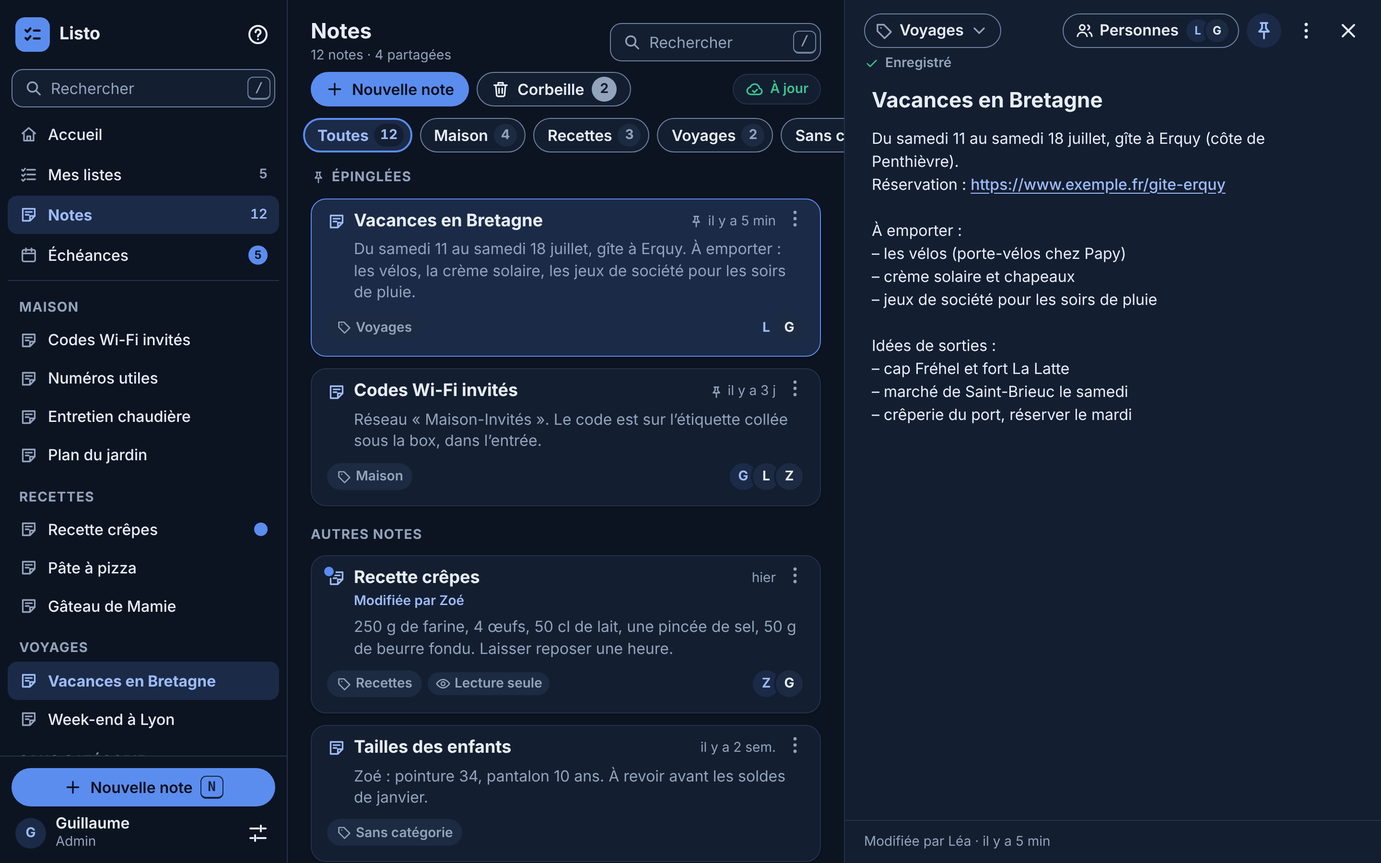
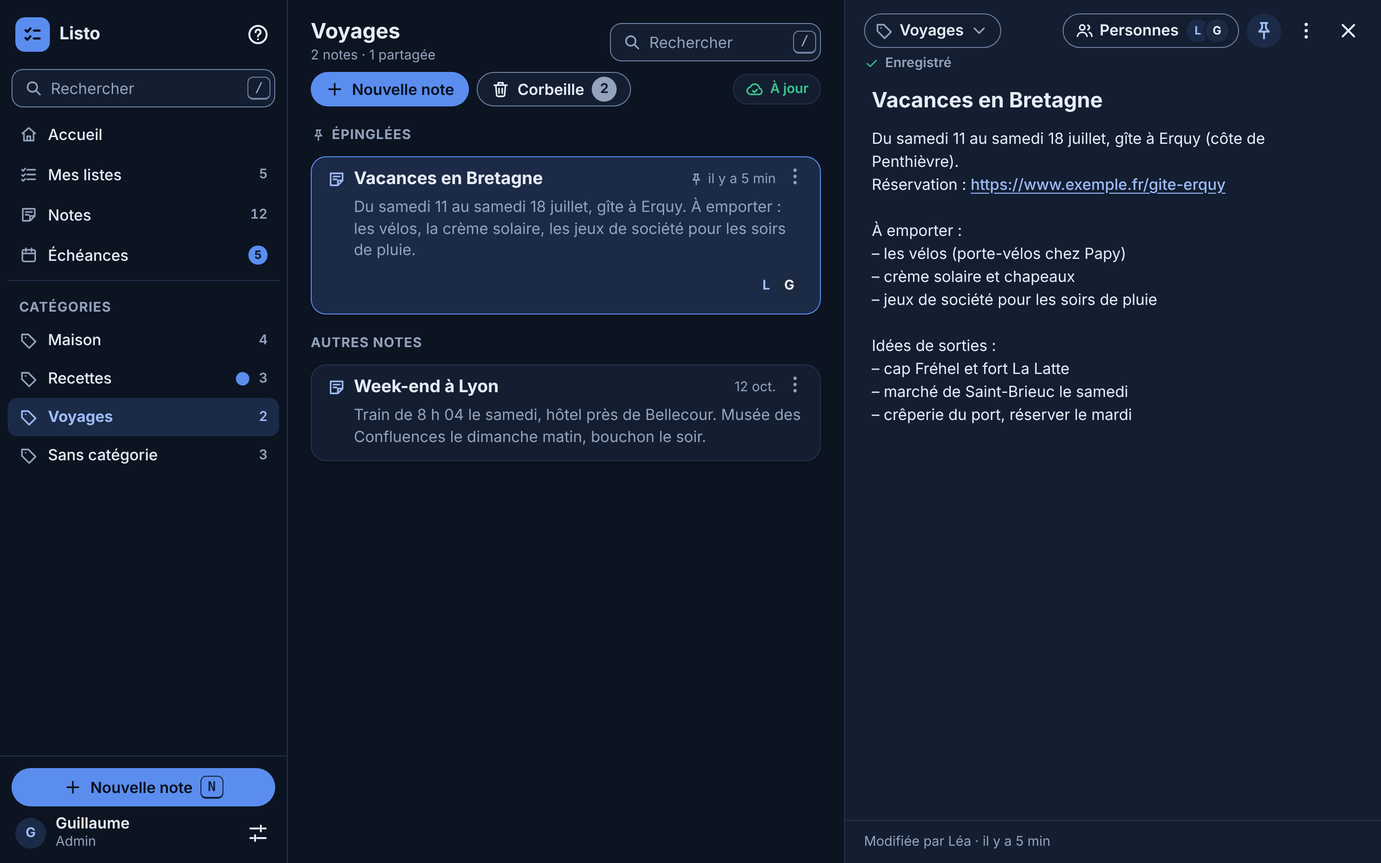
Maquettes : sur ordinateur, catégories des notes dans le menu de gauche, notes de la catégorie choisie au centre
Claude-Session: https://claude.ai/code/session_01RoZ4edsPjQcz3aEDFj3cbP

diff --git a/design/accueil-notes/reference-ordinateur.html b/design/accueil-notes/reference-ordinateur.html
@@ -100,7 +100,7 @@
 </defs></svg>
 <main class="board"><h1 class="board__title">Listo : Accueil et Notes (ordinateur)</h1><p class="board__note">Maquettes du 23 novembre 2026 (cadrage : docs/cadrage-accueil-notes-notifications.md). Chaque écran est capturé seul par capture.mjs (captures/, clair et sombre).</p><div class="board__shots">
 <figure class="shot" id="pc-accueil-1"><figcaption><code>pc-accueil-1</code> · Accueil sur ordinateur</figcaption><div class="desk"><div class="app app--pc"><div class="pc"><aside class="pc-side" aria-label="Navigation"><div class="pc-brand"><a class="pc-brand__home" href="#"><span class="brand-mark" aria-hidden="true"><svg class="icon" aria-hidden="true"><use href="#i-logo"/></svg></span><span class="pc-brand__name">Listo</span><span class="visually-hidden"> Accueil</span></a><button class="icon-btn" type="button" aria-label="Raccourcis clavier"><svg class="icon" aria-hidden="true"><use href="#i-help"/></svg></button></div><label class="searchfield"><svg class="icon icon--sm" aria-hidden="true"><use href="#i-search"/></svg><input class="searchfield__input" type="search" aria-label="Rechercher une liste ou une note" placeholder="Rechercher"><kbd class="keycap">/</kbd></label><div class="pc-side__main"><a class="pc-nav__item" href="#" aria-current="page"><span class="pc-nav__icon"><svg class="icon icon--sm" aria-hidden="true"><use href="#i-home"/></svg></span><span class="pc-nav__name">Accueil</span></a><a class="pc-nav__item" href="#"><span class="pc-nav__icon"><svg class="icon icon--sm" aria-hidden="true"><use href="#i-tasks"/></svg></span><span class="pc-nav__name">Mes listes</span><span class="pc-nav__count">5</span></a><a class="pc-nav__item" href="#"><span class="pc-nav__icon"><svg class="icon icon--sm" aria-hidden="true"><use href="#i-note"/></svg></span><span class="pc-nav__name">Notes</span><span class="pc-nav__count">12</span></a><a class="pc-nav__item" href="#" aria-label="Échéances, 5 tâches en retard ou pour aujourd&#39;hui"><span class="pc-nav__icon"><svg class="icon icon--sm" aria-hidden="true"><use href="#i-calendar"/></svg></span><span class="pc-nav__name">Échéances</span><span class="news-badge" aria-hidden="true">5</span></a></div><nav class="pc-nav" aria-label="Mes listes"><h2 class="pc-nav__group">Courses</h2><ul><li><a class="pc-nav__item" href="#"><span class="pc-nav__icon"><svg class="icon icon--sm" aria-hidden="true"><use href="#i-cart"/></svg></span><span class="pc-nav__name">Courses de la semaine</span><span class="pc-nav__count">5/8</span></a></li><li><a class="pc-nav__item" href="#"><span class="pc-nav__icon"><svg class="icon icon--sm" aria-hidden="true"><use href="#i-cart"/></svg></span><span class="pc-nav__name">Courses du centre-ville</span><span class="pc-nav__count">7/9</span></a></li></ul><h2 class="pc-nav__group">Tâches</h2><ul><li><a class="pc-nav__item" href="#"><span class="pc-nav__icon"><svg class="icon icon--sm" aria-hidden="true"><use href="#i-tasks"/></svg></span><span class="pc-nav__name">Maison</span><span class="pc-nav__count">5/7</span></a></li><li><a class="pc-nav__item" href="#"><span class="pc-nav__icon"><svg class="icon icon--sm" aria-hidden="true"><use href="#i-tasks"/></svg></span><span class="pc-nav__name">Vacances à préparer</span><span class="pc-nav__count">1/5</span></a></li></ul><h2 class="pc-nav__group">Envies</h2><ul><li><a class="pc-nav__item" href="#"><span class="pc-nav__icon"><svg class="icon icon--sm" aria-hidden="true"><use href="#i-gift"/></svg></span><span class="pc-nav__name">Idées cadeaux</span><span class="pc-nav__count">6/9</span></a></li></ul></nav><div class="pc-side__foot"><button class="btn btn--primary btn--block" type="button"><svg class="icon icon--sm" aria-hidden="true"><use href="#i-plus"/></svg>Nouvelle liste<kbd class="keycap">N</kbd></button><div class="pc-user"><span class="avatar">G</span><span class="pc-user__text"><span class="pc-user__name">Guillaume</span><span class="pc-user__role">Admin</span></span><button class="icon-btn" type="button" aria-label="Réglages"><svg class="icon" aria-hidden="true"><use href="#i-sliders"/></svg></button></div></div></aside><main class="pc-main"><div class="pc-col pc-col--wide"><header class="pc-head"><div class="pc-head__main"><h1 class="pc-head__hello">Bonjour Guillaume</h1><p class="pc-head__sub">Lundi 23 novembre</p></div><div class="pc-head__tools"><button class="sync sync--ok" type="button" aria-label="À jour, synchroniser maintenant"><svg class="icon icon--sm" aria-hidden="true"><use href="#i-cloud-ok"/></svg><span class="sync__text">À jour</span></button><button class="icon-btn icon-btn--badge" type="button" aria-label="Notifications, 3 non lues"><svg class="icon" aria-hidden="true"><use href="#i-bell"/></svg><span class="icon-btn__badge" aria-hidden="true">3</span></button></div></header><div class="tiles"><section class="card tile" aria-label="Échéances"><button class="tile__head" type="button"><svg class="icon" aria-hidden="true"><use href="#i-calendar"/></svg><span class="tile__name">Échéances</span></button><ul class="tile__rows"><li><button class="tile__row" type="button" aria-label="En retard, 2 tâches"><span class="tile__label">En retard</span><span class="count count--danger" aria-hidden="true">2</span></button></li><li><button class="tile__row" type="button" aria-label="Aujourd&#39;hui, 3 tâches"><span class="tile__label">Aujourd&#39;hui</span><span class="count count--success" aria-hidden="true">3</span></button></li><li><button class="tile__row" type="button" aria-label="Plus tard, 8 tâches"><span class="tile__label">Plus tard</span><span class="count" aria-hidden="true">8</span></button></li></ul></section><section class="card tile" aria-label="Listes"><button class="tile__head" type="button"><svg class="icon" aria-hidden="true"><use href="#i-tasks"/></svg><span class="tile__name">Listes</span></button><ul class="tile__rows"><li><button class="tile__row" type="button" aria-label="Courses, 2 listes"><span class="tile__label">Courses</span><span class="count" aria-hidden="true">2</span></button></li><li><button class="tile__row" type="button" aria-label="Tâches, 2 listes, nouveautés"><span class="tile__label">Tâches</span><span class="tile__dot" aria-hidden="true"></span><span class="count" aria-hidden="true">2</span></button></li><li><button class="tile__row" type="button" aria-label="Envies, 1 liste"><span class="tile__label">Envies</span><span class="count" aria-hidden="true">1</span></button></li></ul></section><section class="card tile" aria-label="Notes"><button class="tile__head" type="button" aria-label="Notes, 12 notes"><svg class="icon" aria-hidden="true"><use href="#i-note"/></svg><span class="tile__name">Notes</span></button><p class="tile__meta" aria-hidden="true">12 notes</p><ul class="tile__rows"><li><button class="tile__row" type="button" aria-label="Vacances en Bretagne, modifiée par Léa"><span class="tile__label">Vacances en Bretagne</span><span class="tile__dot" aria-hidden="true"></span></button></li><li><button class="tile__row" type="button"><span class="tile__label">Recette crêpes</span></button></li><li><button class="tile__row" type="button"><span class="tile__label">Codes Wi-Fi invités</span></button></li><li><button class="tile__row" type="button"><span class="tile__label">Tailles des enfants</span></button></li><li><button class="tile__row tile__row--add" type="button"><svg class="icon icon--sm" aria-hidden="true"><use href="#i-plus"/></svg><span class="tile__label">Nouvelle note</span></button></li></ul></section><section class="card tile" aria-label="Compte"><button class="tile__head" type="button"><svg class="icon" aria-hidden="true"><use href="#i-user"/></svg><span class="tile__name">Compte</span></button><ul class="tile__rows"><li><button class="tile__row" type="button"><span class="tile__label">Mon compte</span><svg class="icon icon--sm" aria-hidden="true"><use href="#i-chev-r"/></svg></button></li><li><button class="tile__row" type="button" aria-label="Notifications, 3 non lues"><span class="tile__label">Notifications</span><span class="count count--accent" aria-hidden="true">3</span></button></li><li><button class="tile__row" type="button"><span class="tile__label">Réglages</span><svg class="icon icon--sm" aria-hidden="true"><use href="#i-chev-r"/></svg></button></li></ul></section></div></div></main></div></div></div></figure>
-<figure class="shot" id="pc-notes-1"><figcaption><code>pc-notes-1</code> · Notes sur ordinateur</figcaption><div class="desk"><div class="app app--pc"><div class="pc"><aside class="pc-side" aria-label="Navigation"><div class="pc-brand"><a class="pc-brand__home" href="#"><span class="brand-mark" aria-hidden="true"><svg class="icon" aria-hidden="true"><use href="#i-logo"/></svg></span><span class="pc-brand__name">Listo</span><span class="visually-hidden"> Accueil</span></a><button class="icon-btn" type="button" aria-label="Raccourcis clavier"><svg class="icon" aria-hidden="true"><use href="#i-help"/></svg></button></div><label class="searchfield"><svg class="icon icon--sm" aria-hidden="true"><use href="#i-search"/></svg><input class="searchfield__input" type="search" aria-label="Rechercher une liste ou une note" placeholder="Rechercher"><kbd class="keycap">/</kbd></label><div class="pc-side__main"><a class="pc-nav__item" href="#"><span class="pc-nav__icon"><svg class="icon icon--sm" aria-hidden="true"><use href="#i-home"/></svg></span><span class="pc-nav__name">Accueil</span></a><a class="pc-nav__item" href="#"><span class="pc-nav__icon"><svg class="icon icon--sm" aria-hidden="true"><use href="#i-tasks"/></svg></span><span class="pc-nav__name">Mes listes</span><span class="pc-nav__count">5</span></a><a class="pc-nav__item" href="#" aria-current="page"><span class="pc-nav__icon"><svg class="icon icon--sm" aria-hidden="true"><use href="#i-note"/></svg></span><span class="pc-nav__name">Notes</span><span class="pc-nav__count">12</span></a><a class="pc-nav__item" href="#" aria-label="Échéances, 5 tâches en retard ou pour aujourd&#39;hui"><span class="pc-nav__icon"><svg class="icon icon--sm" aria-hidden="true"><use href="#i-calendar"/></svg></span><span class="pc-nav__name">Échéances</span><span class="news-badge" aria-hidden="true">5</span></a></div><nav class="pc-nav" aria-label="Notes par catégorie"><h2 class="pc-nav__group">Maison</h2><ul><li><a class="pc-nav__item" href="#"><span class="pc-nav__icon"><svg class="icon icon--sm" aria-hidden="true"><use href="#i-note"/></svg></span><span class="pc-nav__name">Codes Wi-Fi invités</span></a></li><li><a class="pc-nav__item" href="#"><span class="pc-nav__icon"><svg class="icon icon--sm" aria-hidden="true"><use href="#i-note"/></svg></span><span class="pc-nav__name">Numéros utiles</span></a></li><li><a class="pc-nav__item" href="#"><span class="pc-nav__icon"><svg class="icon icon--sm" aria-hidden="true"><use href="#i-note"/></svg></span><span class="pc-nav__name">Entretien chaudière</span></a></li><li><a class="pc-nav__item" href="#"><span class="pc-nav__icon"><svg class="icon icon--sm" aria-hidden="true"><use href="#i-note"/></svg></span><span class="pc-nav__name">Plan du jardin</span></a></li></ul><h2 class="pc-nav__group">Recettes</h2><ul><li><a class="pc-nav__item" href="#"><span class="pc-nav__icon"><svg class="icon icon--sm" aria-hidden="true"><use href="#i-note"/></svg></span><span class="pc-nav__name">Recette crêpes</span><span class="news-badge news-badge--dot" role="img" aria-label="Nouveautés"></span></a></li><li><a class="pc-nav__item" href="#"><span class="pc-nav__icon"><svg class="icon icon--sm" aria-hidden="true"><use href="#i-note"/></svg></span><span class="pc-nav__name">Pâte à pizza</span></a></li><li><a class="pc-nav__item" href="#"><span class="pc-nav__icon"><svg class="icon icon--sm" aria-hidden="true"><use href="#i-note"/></svg></span><span class="pc-nav__name">Gâteau de Mamie</span></a></li></ul><h2 class="pc-nav__group">Voyages</h2><ul><li><a class="pc-nav__item" href="#" aria-current="page"><span class="pc-nav__icon"><svg class="icon icon--sm" aria-hidden="true"><use href="#i-note"/></svg></span><span class="pc-nav__name">Vacances en Bretagne</span></a></li><li><a class="pc-nav__item" href="#"><span class="pc-nav__icon"><svg class="icon icon--sm" aria-hidden="true"><use href="#i-note"/></svg></span><span class="pc-nav__name">Week-end à Lyon</span></a></li></ul><h2 class="pc-nav__group">Sans catégorie</h2><ul><li><a class="pc-nav__item" href="#"><span class="pc-nav__icon"><svg class="icon icon--sm" aria-hidden="true"><use href="#i-note"/></svg></span><span class="pc-nav__name">Tailles des enfants</span></a></li><li><a class="pc-nav__item" href="#"><span class="pc-nav__icon"><svg class="icon icon--sm" aria-hidden="true"><use href="#i-note"/></svg></span><span class="pc-nav__name">Idées de sorties</span></a></li><li><a class="pc-nav__item" href="#"><span class="pc-nav__icon"><svg class="icon icon--sm" aria-hidden="true"><use href="#i-note"/></svg></span><span class="pc-nav__name">Mots de passe du club</span></a></li></ul></nav><div class="pc-side__foot"><button class="btn btn--primary btn--block" type="button"><svg class="icon icon--sm" aria-hidden="true"><use href="#i-plus"/></svg>Nouvelle note<kbd class="keycap">N</kbd></button><div class="pc-user"><span class="avatar">G</span><span class="pc-user__text"><span class="pc-user__name">Guillaume</span><span class="pc-user__role">Admin</span></span><button class="icon-btn" type="button" aria-label="Réglages"><svg class="icon" aria-hidden="true"><use href="#i-sliders"/></svg></button></div></div></aside><main class="pc-main"><div class="pc-notes"><div class="pc-notes__list"><header class="pc-head"><div class="pc-head__main"><h1 class="pc-head__title">Notes</h1><p class="pc-head__sub">12 notes · 4 partagées</p></div><label class="searchfield"><svg class="icon icon--sm" aria-hidden="true"><use href="#i-search"/></svg><input class="searchfield__input" type="search" aria-label="Rechercher dans les notes" placeholder="Rechercher"><kbd class="keycap">/</kbd></label></header><div class="pc-tools"><button class="btn btn--primary btn--sm" type="button"><svg class="icon icon--sm" aria-hidden="true"><use href="#i-plus"/></svg>Nouvelle note</button><button class="btn btn--secondary btn--sm" type="button" aria-label="Corbeille des notes, 2 notes"><svg class="icon icon--sm" aria-hidden="true"><use href="#i-trash"/></svg>Corbeille<span class="count" aria-hidden="true">2</span></button><div class="pc-tools__end"><button class="sync sync--ok" type="button" aria-label="À jour, synchroniser maintenant"><svg class="icon icon--sm" aria-hidden="true"><use href="#i-cloud-ok"/></svg><span class="sync__text">À jour</span></button></div></div><div class="catbar" role="group" aria-label="Catégories"><button class="cat-chip" type="button" aria-pressed="true" aria-label="Toutes, 12 notes">Toutes<span class="cat-chip__count" aria-hidden="true">12</span></button><button class="cat-chip" type="button" aria-pressed="false" aria-label="Maison, 4 notes">Maison<span class="cat-chip__count" aria-hidden="true">4</span></button><button class="cat-chip" type="button" aria-pressed="false" aria-label="Recettes, 3 notes">Recettes<span class="cat-chip__count" aria-hidden="true">3</span></button><button class="cat-chip" type="button" aria-pressed="false" aria-label="Voyages, 2 notes">Voyages<span class="cat-chip__count" aria-hidden="true">2</span></button><button class="cat-chip" type="button" aria-pressed="false" aria-label="Sans catégorie, 3 notes">Sans catégorie<span class="cat-chip__count" aria-hidden="true">3</span></button></div><div class="scroll"><div class="pc-notes__cards"><h2 class="notes-section"><svg class="icon icon--xs" aria-hidden="true"><use href="#i-pin"/></svg>Épinglées</h2><article class="card note-card is-selected"><div class="note-card__head"><span class="note-card__icon"><svg class="icon icon--sm" aria-hidden="true"><use href="#i-note"/></svg></span><h3 class="note-card__title"><a href="#" style="color:inherit;text-decoration:none">Vacances en Bretagne</a></h3><span class="note-card__time"><svg class="icon icon--xs" aria-hidden="true"><use href="#i-pin"/></svg><span class="visually-hidden">Épinglée, </span>il y a 5 min</span><button class="icon-btn" type="button" aria-label="Actions de Vacances en Bretagne"><svg class="icon" aria-hidden="true"><use href="#i-more"/></svg></button></div><p class="note-card__excerpt">Du samedi 11 au samedi 18 juillet, gîte à Erquy. À emporter : les vélos, la crème solaire, les jeux de société pour les soirs de pluie.</p><div class="note-card__foot"><div class="note-card__chips"><span class="chip"><svg class="icon icon--xs" aria-hidden="true"><use href="#i-tag"/></svg>Voyages</span></div><div class="avatars" role="img" aria-label="Partagée avec Léa, Guillaume"><span class="avatar">L</span><span class="avatar avatar--b">G</span></div></div></article><article class="card note-card"><div class="note-card__head"><span class="note-card__icon"><svg class="icon icon--sm" aria-hidden="true"><use href="#i-note"/></svg></span><h3 class="note-card__title"><a href="#" style="color:inherit;text-decoration:none">Codes Wi-Fi invités</a></h3><span class="note-card__time"><svg class="icon icon--xs" aria-hidden="true"><use href="#i-pin"/></svg><span class="visually-hidden">Épinglée, </span>il y a 3 j</span><button class="icon-btn" type="button" aria-label="Actions de Codes Wi-Fi invités"><svg class="icon" aria-hidden="true"><use href="#i-more"/></svg></button></div><p class="note-card__excerpt">Réseau «&nbsp;Maison-Invités&nbsp;». Le code est sur l’étiquette collée sous la box, dans l’entrée.</p><div class="note-card__foot"><div class="note-card__chips"><span class="chip"><svg class="icon icon--xs" aria-hidden="true"><use href="#i-tag"/></svg>Maison</span></div><div class="avatars" role="img" aria-label="Partagée avec Guillaume, Léa, Zoé"><span class="avatar">G</span><span class="avatar avatar--b">L</span><span class="avatar avatar--b">Z</span></div></div></article><h2 class="notes-section">Autres notes</h2><article class="card note-card"><div class="note-card__head"><span class="note-card__icon"><svg class="icon icon--sm" aria-hidden="true"><use href="#i-note"/></svg><span class="news-badge news-badge--dot" role="img" aria-label="Nouveautés"></span></span><h3 class="note-card__title"><a href="#" style="color:inherit;text-decoration:none">Recette crêpes</a></h3><span class="note-card__time">hier</span><button class="icon-btn" type="button" aria-label="Actions de Recette crêpes"><svg class="icon" aria-hidden="true"><use href="#i-more"/></svg></button></div><span class="note-card__news">Modifiée par Zoé</span><p class="note-card__excerpt">250 g de farine, 4 œufs, 50 cl de lait, une pincée de sel, 50 g de beurre fondu. Laisser reposer une heure.</p><div class="note-card__foot"><div class="note-card__chips"><span class="chip"><svg class="icon icon--xs" aria-hidden="true"><use href="#i-tag"/></svg>Recettes</span><span class="chip chip--readonly"><svg class="icon icon--xs" aria-hidden="true"><use href="#i-eye"/></svg>Lecture seule</span></div><div class="avatars" role="img" aria-label="Partagée avec Zoé, Guillaume"><span class="avatar">Z</span><span class="avatar avatar--b">G</span></div></div></article><article class="card note-card"><div class="note-card__head"><span class="note-card__icon"><svg class="icon icon--sm" aria-hidden="true"><use href="#i-note"/></svg></span><h3 class="note-card__title"><a href="#" style="color:inherit;text-decoration:none">Tailles des enfants</a></h3><span class="note-card__time">il y a 2 sem.</span><button class="icon-btn" type="button" aria-label="Actions de Tailles des enfants"><svg class="icon" aria-hidden="true"><use href="#i-more"/></svg></button></div><p class="note-card__excerpt">Zoé : pointure 34, pantalon 10 ans. À revoir avant les soldes de janvier.</p><div class="note-card__foot"><div class="note-card__chips"><span class="chip"><svg class="icon icon--xs" aria-hidden="true"><use href="#i-tag"/></svg>Sans catégorie</span></div></div></article><article class="card note-card"><div class="note-card__head"><span class="note-card__icon"><svg class="icon icon--sm" aria-hidden="true"><use href="#i-note"/></svg></span><h3 class="note-card__title"><a href="#" style="color:inherit;text-decoration:none">Numéros utiles</a></h3><span class="note-card__time">3 nov.</span><button class="icon-btn" type="button" aria-label="Actions de Numéros utiles"><svg class="icon" aria-hidden="true"><use href="#i-more"/></svg></button></div><p class="note-card__excerpt">Plombier, électricien, chauffagiste : les cartes sont dans le tiroir de l’entrée.</p><div class="note-card__foot"><div class="note-card__chips"><span class="chip"><svg class="icon icon--xs" aria-hidden="true"><use href="#i-tag"/></svg>Maison</span></div></div></article></div></div></div><section class="pc-note" aria-label="Note ouverte : Vacances en Bretagne"><div class="pc-note__bar"><button class="btn btn--sm btn--secondary note-cat" type="button" aria-haspopup="listbox" aria-label="Catégorie : Voyages. Changer"><svg class="icon icon--sm" aria-hidden="true"><use href="#i-tag"/></svg><span class="note-cat__name">Voyages</span><svg class="icon icon--sm" aria-hidden="true"><use href="#i-chev-d"/></svg></button><span class="grow"></span><button class="btn btn--sm btn--secondary note-people" type="button" aria-haspopup="dialog" aria-label="Personnes : Léa (propriétaire) et vous, peut modifier"><svg class="icon icon--sm" aria-hidden="true"><use href="#i-users"/></svg>Personnes<span class="avatars" aria-hidden="true"><span class="avatar">L</span><span class="avatar avatar--b">G</span></span></button><button class="icon-btn" type="button" aria-label="Désépingler" aria-pressed="true"><svg class="icon" aria-hidden="true"><use href="#i-pin"/></svg></button><button class="icon-btn" type="button" aria-label="Plus d&#39;actions" aria-haspopup="menu"><svg class="icon" aria-hidden="true"><use href="#i-more"/></svg></button><button class="icon-btn" type="button" aria-label="Fermer la note"><svg class="icon" aria-hidden="true"><use href="#i-close"/></svg></button></div><p class="note-status note-status--ok" role="status"><svg class="icon icon--xs" aria-hidden="true"><use href="#i-check"/></svg>Enregistré</p><div class="note-edit"><input class="note-edit__title" type="text" aria-label="Titre" value="Vacances en Bretagne"><div class="note-edit__body" role="textbox" aria-multiline="true" aria-label="Texte de la note">Du samedi 11 au samedi 18 juillet, gîte à Erquy (côte de Penthièvre).
+<figure class="shot" id="pc-notes-1"><figcaption><code>pc-notes-1</code> · Notes sur ordinateur</figcaption><div class="desk"><div class="app app--pc"><div class="pc"><aside class="pc-side" aria-label="Navigation"><div class="pc-brand"><a class="pc-brand__home" href="#"><span class="brand-mark" aria-hidden="true"><svg class="icon" aria-hidden="true"><use href="#i-logo"/></svg></span><span class="pc-brand__name">Listo</span><span class="visually-hidden"> Accueil</span></a><button class="icon-btn" type="button" aria-label="Raccourcis clavier"><svg class="icon" aria-hidden="true"><use href="#i-help"/></svg></button></div><label class="searchfield"><svg class="icon icon--sm" aria-hidden="true"><use href="#i-search"/></svg><input class="searchfield__input" type="search" aria-label="Rechercher une liste ou une note" placeholder="Rechercher"><kbd class="keycap">/</kbd></label><div class="pc-side__main"><a class="pc-nav__item" href="#"><span class="pc-nav__icon"><svg class="icon icon--sm" aria-hidden="true"><use href="#i-home"/></svg></span><span class="pc-nav__name">Accueil</span></a><a class="pc-nav__item" href="#"><span class="pc-nav__icon"><svg class="icon icon--sm" aria-hidden="true"><use href="#i-tasks"/></svg></span><span class="pc-nav__name">Mes listes</span><span class="pc-nav__count">5</span></a><a class="pc-nav__item" href="#"><span class="pc-nav__icon"><svg class="icon icon--sm" aria-hidden="true"><use href="#i-note"/></svg></span><span class="pc-nav__name">Notes</span><span class="pc-nav__count">12</span></a><a class="pc-nav__item" href="#" aria-label="Échéances, 5 tâches en retard ou pour aujourd&#39;hui"><span class="pc-nav__icon"><svg class="icon icon--sm" aria-hidden="true"><use href="#i-calendar"/></svg></span><span class="pc-nav__name">Échéances</span><span class="news-badge" aria-hidden="true">5</span></a></div><nav class="pc-nav" aria-label="Catégories des notes"><h2 class="pc-nav__group">Catégories</h2><ul><li><a class="pc-nav__item" href="#" aria-label="Maison, 4 notes"><span class="pc-nav__icon"><svg class="icon icon--sm" aria-hidden="true"><use href="#i-tag"/></svg></span><span class="pc-nav__name">Maison</span><span class="pc-nav__count" aria-hidden="true">4</span></a></li><li><a class="pc-nav__item" href="#" aria-label="Recettes, 3 notes"><span class="pc-nav__icon"><svg class="icon icon--sm" aria-hidden="true"><use href="#i-tag"/></svg></span><span class="pc-nav__name">Recettes</span><span class="news-badge news-badge--dot" role="img" aria-label="Nouveautés"></span><span class="pc-nav__count" aria-hidden="true">3</span></a></li><li><a class="pc-nav__item" href="#" aria-current="page" aria-label="Voyages, 2 notes"><span class="pc-nav__icon"><svg class="icon icon--sm" aria-hidden="true"><use href="#i-tag"/></svg></span><span class="pc-nav__name">Voyages</span><span class="pc-nav__count" aria-hidden="true">2</span></a></li><li><a class="pc-nav__item" href="#" aria-label="Sans catégorie, 3 notes"><span class="pc-nav__icon"><svg class="icon icon--sm" aria-hidden="true"><use href="#i-tag"/></svg></span><span class="pc-nav__name">Sans catégorie</span><span class="pc-nav__count" aria-hidden="true">3</span></a></li></ul></nav><div class="pc-side__foot"><button class="btn btn--primary btn--block" type="button"><svg class="icon icon--sm" aria-hidden="true"><use href="#i-plus"/></svg>Nouvelle note<kbd class="keycap">N</kbd></button><div class="pc-user"><span class="avatar">G</span><span class="pc-user__text"><span class="pc-user__name">Guillaume</span><span class="pc-user__role">Admin</span></span><button class="icon-btn" type="button" aria-label="Réglages"><svg class="icon" aria-hidden="true"><use href="#i-sliders"/></svg></button></div></div></aside><main class="pc-main"><div class="pc-notes"><div class="pc-notes__list"><header class="pc-head"><div class="pc-head__main"><h1 class="pc-head__title">Voyages</h1><p class="pc-head__sub">2 notes · 1 partagée</p></div><label class="searchfield"><svg class="icon icon--sm" aria-hidden="true"><use href="#i-search"/></svg><input class="searchfield__input" type="search" aria-label="Rechercher dans Voyages" placeholder="Rechercher"><kbd class="keycap">/</kbd></label></header><div class="pc-tools"><button class="btn btn--primary btn--sm" type="button"><svg class="icon icon--sm" aria-hidden="true"><use href="#i-plus"/></svg>Nouvelle note</button><button class="btn btn--secondary btn--sm" type="button" aria-label="Corbeille des notes, 2 notes"><svg class="icon icon--sm" aria-hidden="true"><use href="#i-trash"/></svg>Corbeille<span class="count" aria-hidden="true">2</span></button><div class="pc-tools__end"><button class="sync sync--ok" type="button" aria-label="À jour, synchroniser maintenant"><svg class="icon icon--sm" aria-hidden="true"><use href="#i-cloud-ok"/></svg><span class="sync__text">À jour</span></button></div></div><div class="scroll"><div class="pc-notes__cards"><h2 class="notes-section"><svg class="icon icon--xs" aria-hidden="true"><use href="#i-pin"/></svg>Épinglées</h2><article class="card note-card is-selected"><div class="note-card__head"><span class="note-card__icon"><svg class="icon icon--sm" aria-hidden="true"><use href="#i-note"/></svg></span><h3 class="note-card__title"><a href="#" style="color:inherit;text-decoration:none">Vacances en Bretagne</a></h3><span class="note-card__time"><svg class="icon icon--xs" aria-hidden="true"><use href="#i-pin"/></svg><span class="visually-hidden">Épinglée, </span>il y a 5 min</span><button class="icon-btn" type="button" aria-label="Actions de Vacances en Bretagne"><svg class="icon" aria-hidden="true"><use href="#i-more"/></svg></button></div><p class="note-card__excerpt">Du samedi 11 au samedi 18 juillet, gîte à Erquy. À emporter : les vélos, la crème solaire, les jeux de société pour les soirs de pluie.</p><div class="note-card__foot"><div class="note-card__chips"></div><div class="avatars" role="img" aria-label="Partagée avec Léa, Guillaume"><span class="avatar">L</span><span class="avatar avatar--b">G</span></div></div></article><h2 class="notes-section">Autres notes</h2><article class="card note-card"><div class="note-card__head"><span class="note-card__icon"><svg class="icon icon--sm" aria-hidden="true"><use href="#i-note"/></svg></span><h3 class="note-card__title"><a href="#" style="color:inherit;text-decoration:none">Week-end à Lyon</a></h3><span class="note-card__time">12 oct.</span><button class="icon-btn" type="button" aria-label="Actions de Week-end à Lyon"><svg class="icon" aria-hidden="true"><use href="#i-more"/></svg></button></div><p class="note-card__excerpt">Train de 8 h 04 le samedi, hôtel près de Bellecour. Musée des Confluences le dimanche matin, bouchon le soir.</p></article></div></div></div><section class="pc-note" aria-label="Note ouverte : Vacances en Bretagne"><div class="pc-note__bar"><button class="btn btn--sm btn--secondary note-cat" type="button" aria-haspopup="listbox" aria-label="Catégorie : Voyages. Changer"><svg class="icon icon--sm" aria-hidden="true"><use href="#i-tag"/></svg><span class="note-cat__name">Voyages</span><svg class="icon icon--sm" aria-hidden="true"><use href="#i-chev-d"/></svg></button><span class="grow"></span><button class="btn btn--sm btn--secondary note-people" type="button" aria-haspopup="dialog" aria-label="Personnes : Léa (propriétaire) et vous, peut modifier"><svg class="icon icon--sm" aria-hidden="true"><use href="#i-users"/></svg>Personnes<span class="avatars" aria-hidden="true"><span class="avatar">L</span><span class="avatar avatar--b">G</span></span></button><button class="icon-btn" type="button" aria-label="Désépingler" aria-pressed="true"><svg class="icon" aria-hidden="true"><use href="#i-pin"/></svg></button><button class="icon-btn" type="button" aria-label="Plus d&#39;actions" aria-haspopup="menu"><svg class="icon" aria-hidden="true"><use href="#i-more"/></svg></button><button class="icon-btn" type="button" aria-label="Fermer la note"><svg class="icon" aria-hidden="true"><use href="#i-close"/></svg></button></div><p class="note-status note-status--ok" role="status"><svg class="icon icon--xs" aria-hidden="true"><use href="#i-check"/></svg>Enregistré</p><div class="note-edit"><input class="note-edit__title" type="text" aria-label="Titre" value="Vacances en Bretagne"><div class="note-edit__body" role="textbox" aria-multiline="true" aria-label="Texte de la note">Du samedi 11 au samedi 18 juillet, gîte à Erquy (côte de Penthièvre).
 Réservation : <a class="note-link" href="#" target="_blank" rel="noopener noreferrer">https://www.exemple.fr/gite-erquy</a>
 
 À emporter :

diff --git a/design/accueil-notes/listo-accueil-notes.css b/design/accueil-notes/listo-accueil-notes.css
@@ -246,8 +246,10 @@
      l'ordre du bandeau du téléphone : Accueil, Mes listes, Notes,
      Échéances (« Échéances » garde sa pastille .news-badge). Dessous,
      le menu suit l'écran (choix du propriétaire du 23 novembre 2026) :
-     écrans des notes, les notes groupées par catégorie (.pc-nav, mêmes
-     classes que les listes) et « Nouvelle note » en bas ; ailleurs, les
+     écrans des notes, « Catégories » : mes catégories et leur nombre
+     (.pc-nav, mêmes classes que les listes), « Nouvelle note » en bas ;
+     le centre ne montre que les notes de la catégorie choisie, sans
+     pastilles .catbar (téléphone seulement) ; ailleurs, les
      listes groupées par type et « Nouvelle liste », inchangés.
    - Accueil : en-tête .pc-head (« Bonjour Guillaume », date ; pastille
      d'état et cloche à droite) ; tuiles sur trois colonnes (quatre au-delà

diff --git a/docs/cadrage-accueil-notes-notifications.md b/docs/cadrage-accueil-notes-notifications.md
@@ -28,7 +28,7 @@ Document de conception rédigé le 23 novembre 2026, à partir des demandes et d
 - **Téléphone** : le bandeau du bas en verre (décision du 11 novembre 2026) passe de trois à cinq boutons, toujours à la même place, toute la largeur : **Accueil** (icône maison), **Listes** (« Mes listes » jusqu'ici), **Notes** (nouvelle icône « note »), **Échéances**, **Réglages**. Libellés courts sous chaque icône, zones tactiles d'au moins 44 px, bouton de l'écran ouvert mis en avant comme aujourd'hui. **Pas de bandeau sur l'Accueil** (choix du propriétaire du 23 novembre 2026) : ses tuiles mènent déjà à tout (Listes, Notes, Échéances, Notifications, Mon compte, Réglages) ; on revient à l'Accueil par le bouton « Accueil » du bandeau des autres écrans.
 - **Premier écran** : l'Accueil (`#/accueil`) à l'ouverture de l'application et après la connexion ; une adresse vide ou inconnue mène à l'Accueil (aujourd'hui « Mes listes »). Un lien direct (liste, note, autorisation d'un assistant IA, notification touchée) ouvre toujours directement son écran.
 - **Loupe ronde** : sur Listes, Notes et Échéances comme aujourd'hui pour les écrans qui ont une recherche ; jamais sur l'Accueil (rien à chercher) ni sur la page Notifications.
-- **Ordinateur** (à partir de 1 024 px) : le menu de gauche gagne « Accueil » en tête, puis « Mes listes » (groupes et compteurs inchangés), « Notes » (une seule entrée avec le nombre de notes), « Échéances ». **Dessous, le menu suit l'écran** (choix du propriétaire du 23 novembre 2026) : sur les écrans des notes (Notes, une note, corbeille des notes), les notes groupées par catégorie (« Sans catégorie » en dernier, la note ouverte mise en avant, pastille des nouveautés) et le bouton du bas devient « Nouvelle note » (touche N) ; sur tous les autres écrans (Accueil, Mes listes, une liste, Échéances, Réglages…), les listes groupées par type comme aujourd'hui, avec « Nouvelle liste ». Les pastilles de catégories restent au-dessus des cartes de notes, comme sur le téléphone. La cloche des notifications est dans l'en-tête de l'Accueil, comme sur le téléphone. Le téléphone ne change pas au-delà de ce qui est décrit ici (captures avant/après expliquées).
+- **Ordinateur** (à partir de 1 024 px) : le menu de gauche gagne « Accueil » en tête, puis « Mes listes » (groupes et compteurs inchangés), « Notes » (une seule entrée avec le nombre de notes), « Échéances ». **Dessous, le menu suit l'écran** (choix du propriétaire du 23 novembre 2026) : sur les écrans des notes (Notes, une note, corbeille des notes), seulement « Catégories » : mes catégories avec leur nombre de notes (« Sans catégorie » en dernier, point des nouveautés), et le bouton du bas devient « Nouvelle note » (touche N) ; sur tous les autres écrans (Accueil, Mes listes, une liste, Échéances, Réglages…), les listes groupées par type comme aujourd'hui, avec « Nouvelle liste ». Toucher une catégorie montre au centre **seulement les notes de cette catégorie** (titre : son nom, « 2 notes · 1 partagée » ; la recherche cherche dans cette catégorie ; une nouvelle note y est rangée) ; l'entrée fixe « Notes » montre toutes les notes. **Pas de pastilles de catégories au-dessus des cartes sur ordinateur** (elles restent sur le téléphone). La cloche des notifications est dans l'en-tête de l'Accueil, comme sur le téléphone. Le téléphone ne change pas au-delà de ce qui est décrit ici (captures avant/après expliquées).
 
 ## 2. Accueil
 
@@ -238,7 +238,7 @@ Dans `design/accueil-notes/` (`README.md`, pages de référence, styles des nouv
 | notifications-1 | Page Notifications (Aujourd'hui, Hier, non lues) |
 | notifications-2 | Page Notifications vide |
 | pc-accueil-1 | Accueil sur ordinateur, menu de gauche avec Accueil et Notes |
-| pc-notes-1 | Notes sur ordinateur (menu de gauche : les notes groupées par catégorie à la place des listes, « Nouvelle note » en bas ; pastilles de catégories au-dessus des cartes ; note ouverte) |
+| pc-notes-1 | Notes sur ordinateur (menu de gauche : les catégories et leur nombre à la place des listes, « Voyages » choisie, « Nouvelle note » en bas ; au centre, seulement les notes de « Voyages », sans pastilles de catégories ; note ouverte) |
 
 Les nouveaux composants (tuile, ligne de tuile avec nombre, carte de note, pastilles de catégories, ligne de notification, cloche avec pastille) sont dans `design/accueil-notes/listo-accueil-notes.css` (sections 16.19 à 16.27) et les icônes manquantes (« note », « épingle ») dans `design/accueil-notes/icons-nouvelles.svg.html` ; ils rejoindront `design/listo.css`, `design/components.html` et le sprite à la construction. Les choix faits en dessinant (en-tête, boutons, emplacement de « Nouvelle note »…) et les points à trancher sont dans `design/accueil-notes/README.md`.
 

diff --git a/design/accueil-notes/README.md b/design/accueil-notes/README.md
@@ -23,7 +23,7 @@ Maquettes du 23 novembre 2026 pour le cadrage `docs/cadrage-accueil-notes-notifi
 - `note-2` : conflit : « À vérifier », bandeau « Léa vient de modifier cette note », choix Garder la mienne / Prendre la leur / Garder les deux, « Décider plus tard ».
 - `notifications-1` : Aujourd'hui, Hier, Samedi 21 novembre ; trois non lues (point, texte en gras, icône bleue) ; « Tout marquer comme lu » ; une ligne glissée qui montre « Effacer » ; « Tout effacer » en bas.
 - `notifications-2` : « Aucune notification ».
-- `pc-accueil-1`, `pc-notes-1` : menu de gauche avec Accueil, Mes listes, Notes, Échéances ; dessous, le menu suit l'écran (choix du propriétaire du 23 novembre 2026) : les listes groupées par type et « Nouvelle liste » sur l'Accueil, les notes groupées par catégorie et « Nouvelle note » sur l'écran Notes ; pastilles des catégories au-dessus des cartes de notes, comme sur le téléphone ; tuiles sur trois colonnes ; notes à gauche et note ouverte à droite.
+- `pc-accueil-1`, `pc-notes-1` : menu de gauche avec Accueil, Mes listes, Notes, Échéances ; dessous, le menu suit l'écran (choix du propriétaire du 23 novembre 2026) : les listes groupées par type et « Nouvelle liste » sur l'Accueil, les catégories et leur nombre et « Nouvelle note » sur l'écran Notes, où le centre ne montre que les notes de la catégorie choisie (« Voyages »), sans pastilles de catégories (elles restent sur le téléphone) ; tuiles sur trois colonnes ; notes à gauche et note ouverte à droite.
 
 ## Nouveaux composants
 
